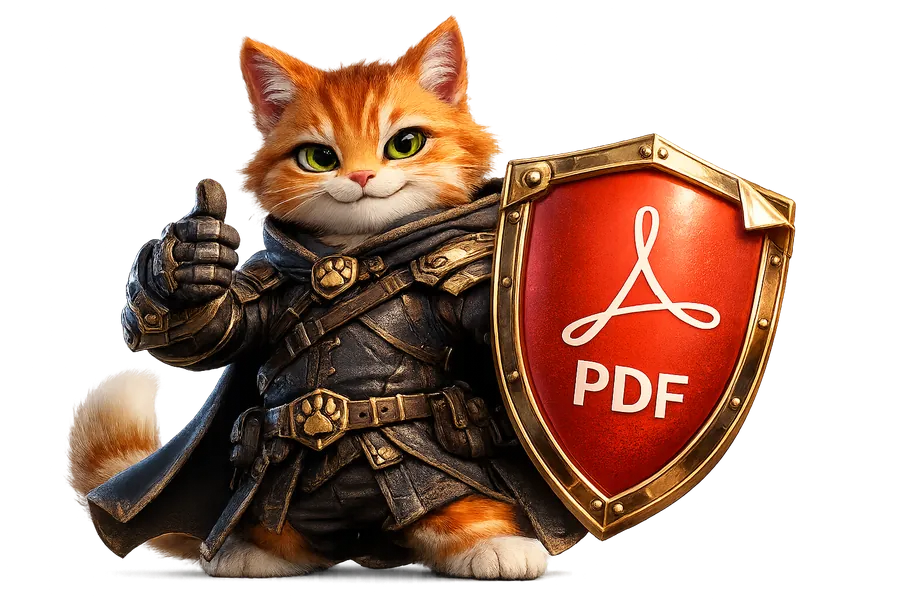
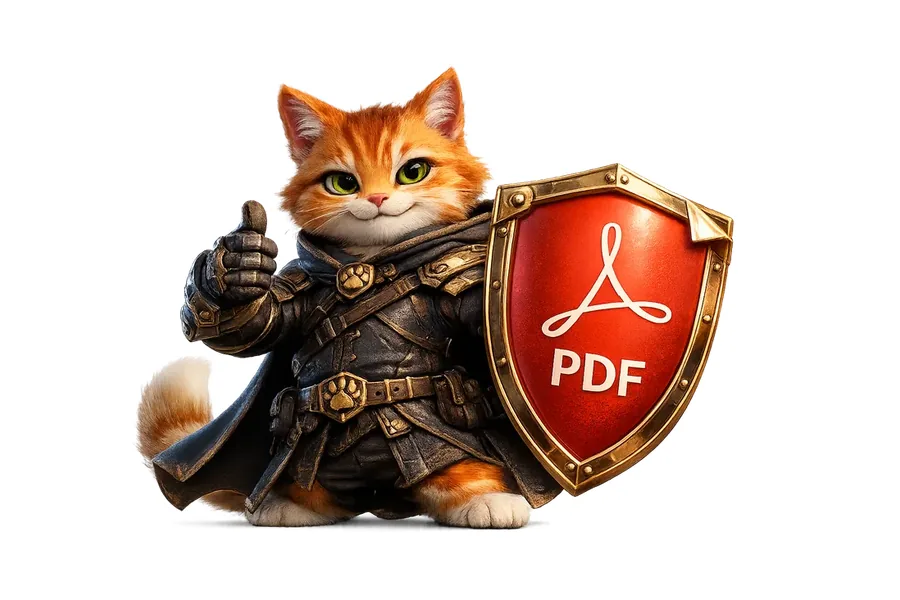
nasıl-yapılır image'larını %18 küçült (15 kedili foto)
pdf-to-excel-nasil-yapilir.webp'deki son ayarla (0.82 scale) aynı
ölçüye getirildi — diğer tüm tool nasıl-yapılır maskot imajları.

Tutarlı visual hierarchy: hero'lar dokunulmadı, sadece step-by-step
bölümlerindeki ikincil imajlar daha küçük, %18 white padding'li.

Etkilenen: ayir, birlestir, dondur, filigran, imzala, ocr, sifre-kaldir,
sifrele, sikistir, sirala, to-jpg, to-ppt, to-txt, to-word, word-to-pdf

diff --git a/site/pdf-sifre-kaldir.html b/site/pdf-sifre-kaldir.html
@@ -629,7 +629,7 @@
             <div class="bg-white rounded-2xl shadow p-6 md:p-8">
                 <div class="grid md:grid-cols-3 gap-8 items-start">
                     <div class="md:col-span-1 flex justify-center">
-                        <img src="/images/pdf-sifre-kaldir-nasil-yapilir.webp?v=33295fd5"
+                        <img src="/images/pdf-sifre-kaldir-nasil-yapilir.webp?v=2a562d75"
                              alt="Turuncu tabby kedi kırmızı PDF'in asma kilidine küçük altın anahtar sokuyor, turuncu kıvılcımlarla kilit açılıyor — PDF Şifre Kaldır aracının maskotu, 3D illüstrasyon"
                              class="w-56 md:w-full max-w-sm"
                              width="450" height="450"

diff --git a/site/pdf-sirala.html b/site/pdf-sirala.html
@@ -618,7 +618,7 @@
             <div class="bg-white rounded-2xl shadow p-6 md:p-8">
                 <div class="grid md:grid-cols-3 gap-8 items-start">
                     <div class="md:col-span-1 flex justify-center">
-                        <img src="/images/pdf-sirala-nasil-yapilir.webp?v=3427a355"
+                        <img src="/images/pdf-sirala-nasil-yapilir.webp?v=f75d4d13"
                              alt="Turuncu tabby kedi havada uçuşan numaralı kırmızı PDF mini sayfalarını kart gibi düzenliyor, bir sayfayı pençesiyle yerine koyuyor — PDF Sırala aracının maskotu, 3D illüstrasyon"
                              class="w-56 md:w-full max-w-sm"
                              width="450" height="450"

diff --git a/site/pdf-to-jpg.html b/site/pdf-to-jpg.html
@@ -533,7 +533,7 @@
             <div class="bg-white rounded-2xl shadow p-6 md:p-10">
                 <div class="grid md:grid-cols-3 gap-8 items-center">
                     <div class="md:col-span-1 flex justify-center">
-                        <img src="/images/pdf-to-jpg-nasil-yapilir.webp?v=d815f421"
+                        <img src="/images/pdf-to-jpg-nasil-yapilir.webp?v=248dcf4e"
                              alt="Turuncu tabby kedi elinde minik kamera ile kırmızı PDF sayfasının fotoğrafını çekiyor, çıktı renkli JPG polaroid fotoğraf — PDF'den JPG'ye aracının maskotu, 3D illüstrasyon"
                              class="w-56 md:w-full max-w-sm"
                              width="450" height="450"

diff --git a/site/pdf-to-word.html b/site/pdf-to-word.html
@@ -533,7 +533,7 @@
             <div class="bg-white rounded-2xl shadow p-6 md:p-10">
                 <div class="grid md:grid-cols-3 gap-8 items-center">
                     <div class="md:col-span-1 flex justify-center">
-                        <img src="/images/pdf-to-word-nasil-yapilir.webp?v=f7d38cc2"
+                        <img src="/images/pdf-to-word-nasil-yapilir.webp?v=8ab25063"
                              alt="Turuncu tabby kedi büyük parlayan mavi W butonuna basıyor, kırmızı PDF mavi düzenlenebilir Word belgesine dönüşüyor — PDF'den Word'e aracının maskotu, 3D illüstrasyon"
                              class="w-56 md:w-full max-w-sm"
                              width="450" height="450"

diff --git a/site/pdf-sikistir.html b/site/pdf-sikistir.html
@@ -550,7 +550,7 @@
             <div class="bg-white rounded-2xl shadow p-6 md:p-10">
                 <div class="grid md:grid-cols-3 gap-8 items-center">
                     <div class="md:col-span-1 flex justify-center">
-                        <img src="/images/pdf-sikistir-nasil-yapilir.webp?v=8db0f555"
+                        <img src="/images/pdf-sikistir-nasil-yapilir.webp?v=60967a84"
                              alt="Turuncu tabby kedi minik kırmızı el preseyle kırmızı PDF'i sıkıştırıyor, çıktı küçük ve düzgün bir PDF — PDF Sıkıştır aracının maskotu, 3D illüstrasyon"
                              class="w-56 md:w-full max-w-sm"
                              width="450" height="450"

diff --git a/site/pdf-to-txt.html b/site/pdf-to-txt.html
@@ -612,7 +612,7 @@
             <div class="bg-white rounded-2xl shadow p-6 md:p-8">
                 <div class="grid md:grid-cols-3 gap-8 items-start">
                     <div class="md:col-span-1 flex justify-center">
-                        <img src="/images/pdf-to-txt-nasil-yapilir.webp?v=c4be87cb"
+                        <img src="/images/pdf-to-txt-nasil-yapilir.webp?v=9e3495f3"
                              alt="Turuncu tabby kedi eski daktiloda yazıyor, bir yanda kırmızı PDF girdi kağıdı diğer yanda gri TXT çıktı kağıdı — PDF'den TXT'ye aracının maskotu, 3D illüstrasyon"
                              class="w-56 md:w-full max-w-sm"
                              width="450" height="450"

diff --git a/site/pdf-birlestir.html b/site/pdf-birlestir.html
@@ -560,7 +560,7 @@
             <div class="bg-white rounded-2xl shadow p-6 md:p-10">
                 <div class="grid md:grid-cols-3 gap-8 items-center">
                     <div class="md:col-span-1 flex justify-center">
-                        <img src="/images/pdf-birlestir-nasil-yapilir.webp?v=690bf1df"
+                        <img src="/images/pdf-birlestir-nasil-yapilir.webp?v=4a724107"
                              alt="Turuncu tabby kedi havada süzülen üç kırmızı PDF belgesini enerji bantlarıyla tek PDF'e birleştiriyor — PDF Birleştir aracının maskotu, 3D illüstrasyon"
                              class="w-56 md:w-full max-w-sm"
                              width="450" height="450"

diff --git a/site/word-to-pdf.html b/site/word-to-pdf.html
@@ -533,7 +533,7 @@
             <div class="bg-white rounded-2xl shadow p-6 md:p-10">
                 <div class="grid md:grid-cols-3 gap-8 items-center">
                     <div class="md:col-span-1 flex justify-center">
-                        <img src="/images/word-to-pdf-nasil-yapilir.webp?v=b45ff4cb"
+                        <img src="/images/word-to-pdf-nasil-yapilir.webp?v=cfeaa7d8"
                              alt="Turuncu tabby kedi mavi Word belgesine kırmızı PDF mührü basıyor, yanında küçük kırmızı ıstampa — Word'den PDF'e aracının maskotu, 3D illüstrasyon"
                              class="w-56 md:w-full max-w-sm"
                              width="450" height="450"

diff --git a/site/pdf-ocr.html b/site/pdf-ocr.html
@@ -611,7 +611,7 @@
             <div class="bg-white rounded-2xl shadow p-6 md:p-8">
                 <div class="grid md:grid-cols-3 gap-8 items-start">
                     <div class="md:col-span-1 flex justify-center">
-                        <img src="/images/pdf-ocr-nasil-yapilir.webp?v=173a464c"
+                        <img src="/images/pdf-ocr-nasil-yapilir.webp?v=f2d2ed96"
                              alt="Tiny detektif gözlüklü turuncu tabby kedi büyüteçle kırmızı PDF'i inceliyor, ortaya çıkan harfler yukarı uçuyor — PDF OCR aracının maskotu, 3D illüstrasyon"
                              class="w-56 md:w-full max-w-sm"
                              width="450" height="450"

diff --git a/site/pdf-sifrele.html b/site/pdf-sifrele.html
@@ -618,7 +618,7 @@
             <div class="bg-white rounded-2xl shadow p-6 md:p-8">
                 <div class="grid md:grid-cols-3 gap-8 items-start">
                     <div class="md:col-span-1 flex justify-center">
-                        <img src="/images/pdf-sifrele-nasil-yapilir.webp?v=1876f4b6"
+                        <img src="/images/pdf-sifrele-nasil-yapilir.webp?v=934ad885"
                              alt="Turuncu tabby kedi kırmızı PDF şeklindeki kasanın büyük kadranını çeviriyor, üstünde kalkan ikonu — PDF Şifrele aracının maskotu, 3D illüstrasyon"
                              class="w-56 md:w-full max-w-sm"
                              width="450" height="450"

diff --git a/site/pdf-to-ppt.html b/site/pdf-to-ppt.html
@@ -612,7 +612,7 @@
             <div class="bg-white rounded-2xl shadow p-6 md:p-8">
                 <div class="grid md:grid-cols-3 gap-8 items-start">
                     <div class="md:col-span-1 flex justify-center">
-                        <img src="/images/pdf-to-ppt-nasil-yapilir.webp?v=fe6cbf69"
+                        <img src="/images/pdf-to-ppt-nasil-yapilir.webp?v=b05f0205"
                              alt="Turuncu tabby kedi sunumcu pozunda, kırmızı PDF'in yanında turuncu sunum slaytları havada açılıyor — PDF'den PPT'ye aracının maskotu, 3D illüstrasyon"
                              class="w-56 md:w-full max-w-sm"
                              width="450" height="450"

diff --git a/site/pdf-filigran.html b/site/pdf-filigran.html
@@ -611,7 +611,7 @@
             <div class="bg-white rounded-2xl shadow p-6 md:p-8">
                 <div class="grid md:grid-cols-3 gap-8 items-start">
                     <div class="md:col-span-1 flex justify-center">
-                        <img src="/images/pdf-filigran-nasil-yapilir.webp?v=102f1d87"
+                        <img src="/images/pdf-filigran-nasil-yapilir.webp?v=5d36d072"
                              alt="Turuncu tabby kedi havada süzülen kırmızı PDF'e pençe izi filigranı basıyor — PDF Filigran aracının maskotu, 3D illüstrasyon"
                              class="w-56 md:w-full max-w-sm"
                              width="450" height="450"
